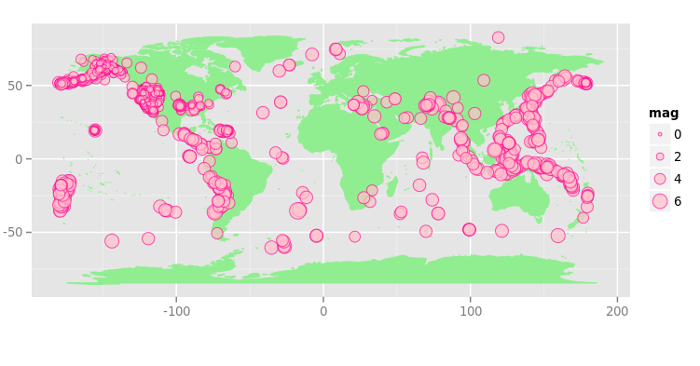
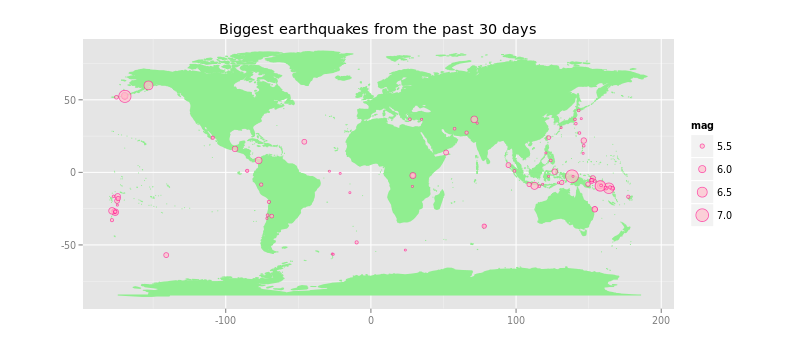
'R: Earthquakes from the past 30 days' Post Update

diff --git a/content/DataAnalysis/last_earthquakes.md b/content/DataAnalysis/last_earthquakes.md
@@ -7,10 +7,11 @@ summary: Plotting the earthquakes of the last 30 months with R and the earthquak
 
 ---
 
-Earthquakes of the last 30 months from [the earthquake.usgs.gov feed](http://earthquake.usgs.gov/earthquakes/feed/v1.0/csv.php feed).
+Earthquakes of the last 30 months from the earthquake.usgs.gov feed : http://earthquake.usgs.gov/earthquakes/feed/v1.0/csv.php feed. 
+
 
 Below are the fields included in the spreadsheet output:
-<pre>
+
     time
     latitude
     longitude
@@ -25,66 +26,89 @@ Below are the fields included in the spreadsheet output:
     id
     updated
     place
-</pre>
 
-Plotting earthquakes frequency and location:
+Loading libraries and downloading the feed:
 
 ```r
 library(reshape2)
 library(ggplot2)
 library(ggmap)
 eq <- read.csv("http://earthquake.usgs.gov/earthquakes/feed/v1.0/summary/all_month.csv", as.is = T)
-head(eq[c("time", "longitude", "latitude", "mag")])
+head(eq[c("time", "longitude", "latitude", "place", "mag")])
 ```
 
 ```
-##                       time longitude latitude  mag
-## 1 2015-07-03T08:52:29.240Z -116.7768 33.27050 1.69
-## 2 2015-07-03T08:50:41.410Z -116.7822 33.27117 2.44
-## 3 2015-07-03T08:48:16.750Z -121.6347 37.24750 1.46
-## 4 2015-07-03T08:38:33.220Z  127.2178  1.20780 4.70
-## 5 2015-07-03T08:30:23.310Z -122.8367 38.80783 1.49
-## 6 2015-07-03T08:29:39.000Z -151.4705 62.43620 1.40
+##                       time longitude latitude
+## 1 2015-08-20T22:41:58.790Z -117.1827 34.00583
+## 2 2015-08-20T22:09:37.180Z -121.5903 36.76000
+## 3 2015-08-20T21:38:51.403Z -119.6169 41.87000
+## 4 2015-08-20T21:27:08.570Z  -98.1158 36.69730
+## 5 2015-08-20T21:24:43.900Z  -64.5836 19.71500
+## 6 2015-08-20T21:17:33.170Z -116.4987 33.49567
+##                                          place  mag
+## 1                6km S of Redlands, California 0.92
+## 2             7km ESE of Prunedale, California 1.43
+## 3                 69km ESE of Lakeview, Oregon 2.48
+## 4                  21km NE of Helena, Oklahoma 2.70
+## 5 143km N of Road Town, British Virgin Islands 3.40
+## 6                 18km ESE of Anza, California 0.58
 ```
+
+Preprocessing the data:
 
 ```r
 eq$area <- factor(sub("^[^,]+, ", "", eq$place))
 eq$date <- as.Date(strtrim(eq$time, 19), format = "%Y-%m-%dT%H:%M:%S")
-eqFreq1 <- table(eq$date, eq$mag, eq$area)
+```
+
+Building a new dataset with magnitude frequencies by day:
+
+```r
+eqFreq1 <- with(eq, table(date, mag))
 eqFreq2 <- melt(eqFreq1)
-names(eqFreq2) <- c("date", "M", "area", "freq")
-head(subset(eqFreq2, freq > 0 & M > 0))
+names(eqFreq2) <- c("date", "magnitude", "freq")
+head(subset(eqFreq2, freq > 0 & magnitude > 0))
 ```
 
 ```
-##             date   M        area freq
-## 10831 2015-06-14 4.1 Afghanistan    3
-## 10838 2015-06-21 4.1 Afghanistan    1
-## 10844 2015-06-27 4.1 Afghanistan    1
-## 10870 2015-06-22 4.2 Afghanistan    1
-## 10887 2015-06-08 4.3 Afghanistan    1
-## 10894 2015-06-15 4.3 Afghanistan    2
+##            date magnitude freq
+## 1149 2015-07-22      0.01    1
+## 1150 2015-07-23      0.01    1
+## 1155 2015-07-28      0.01    1
+## 1156 2015-07-29      0.01    1
+## 1168 2015-08-10      0.01    1
+## 1173 2015-08-15      0.01    1
 ```
 
-
+Plotting a stacked bars graph of earthquakes magnitude frequencies by day:
 
 ```r
-eqFreq2$M <- factor(round(eqFreq2$M))
-ggplot(eqFreq2, aes(date, weight = freq, fill = M)) + geom_bar(binwidth = 60 * 60 * 24) + labs(x = "Date", 
-    y = "Frequency", title = "Earthquakes Frequency from the past 30 days") + theme(axis.text.x = element_text(angle = 90, 
-    hjust = 1))
+eqFreq2$magnitude <- factor(round(eqFreq2$magnitude))
+ggplot(eqFreq2, aes(date, weight = freq, fill = magnitude)) +
+        geom_bar(binwidth = 60 * 60 * 24) +
+        labs(x = "Date", y = "Frequency", 
+             title = "Earthquakes Frequency from the past 30 days") +
+        theme(axis.text.x = element_text(angle = 90, hjust = 1)) +
+        scale_fill_brewer(palette="BuPu")
 ```
 
-![](figure/earthquakes_frequency-1.png)
+<div class="rimage center"><img src="figure/earthquakes_frequency-1.png" title="plot of chunk earthquakes_frequency" alt="plot of chunk earthquakes_frequency" class="plot" /></div>
+
+Using the original dataset to plot a map with the locations of the 100 biggest earthquakes:
 
 ```r
+BiggestMag <- tail(sort(eq$mag), n=100)
+#Plotting
 world_map <- map_data("world")
-p <- ggplot() + coord_fixed() + xlab("") + ylab("")
-base_world <- p + geom_polygon(data = world_map, aes(x = long, y = lat, group = group), colour = "light green", 
-    fill = "light green")
-
-base_world + geom_point(aes(x = longitude, y = latitude, size = mag), data = eq, colour = "Deep Pink", 
-    fill = "Pink", pch = 21, alpha = I(0.7))
+ggplot() + coord_fixed() + xlab("") + ylab("") +
+        geom_polygon(data = world_map, 
+                     aes(x = long, y = lat, group = group), 
+                     colour = "light green", fill = "light green") +
+        geom_point(aes(x = longitude, y = latitude, size = mag),
+                   data = eq[eq$mag %in% BiggestMag ,], 
+                   colour = "Deep Pink", fill = "Pink", 
+                   pch = 21, alpha = I(0.7)) +
+        labs(title="Biggest earthquakes from the past 30 days")
 ```
 
-![](figure/earthquakes_worldmap-1.png)
+<div class="rimage center"><img src="figure/earthquakes_worldmap-1.png" title="plot of chunk earthquakes_worldmap" alt="plot of chunk earthquakes_worldmap" class="plot" /></div>
